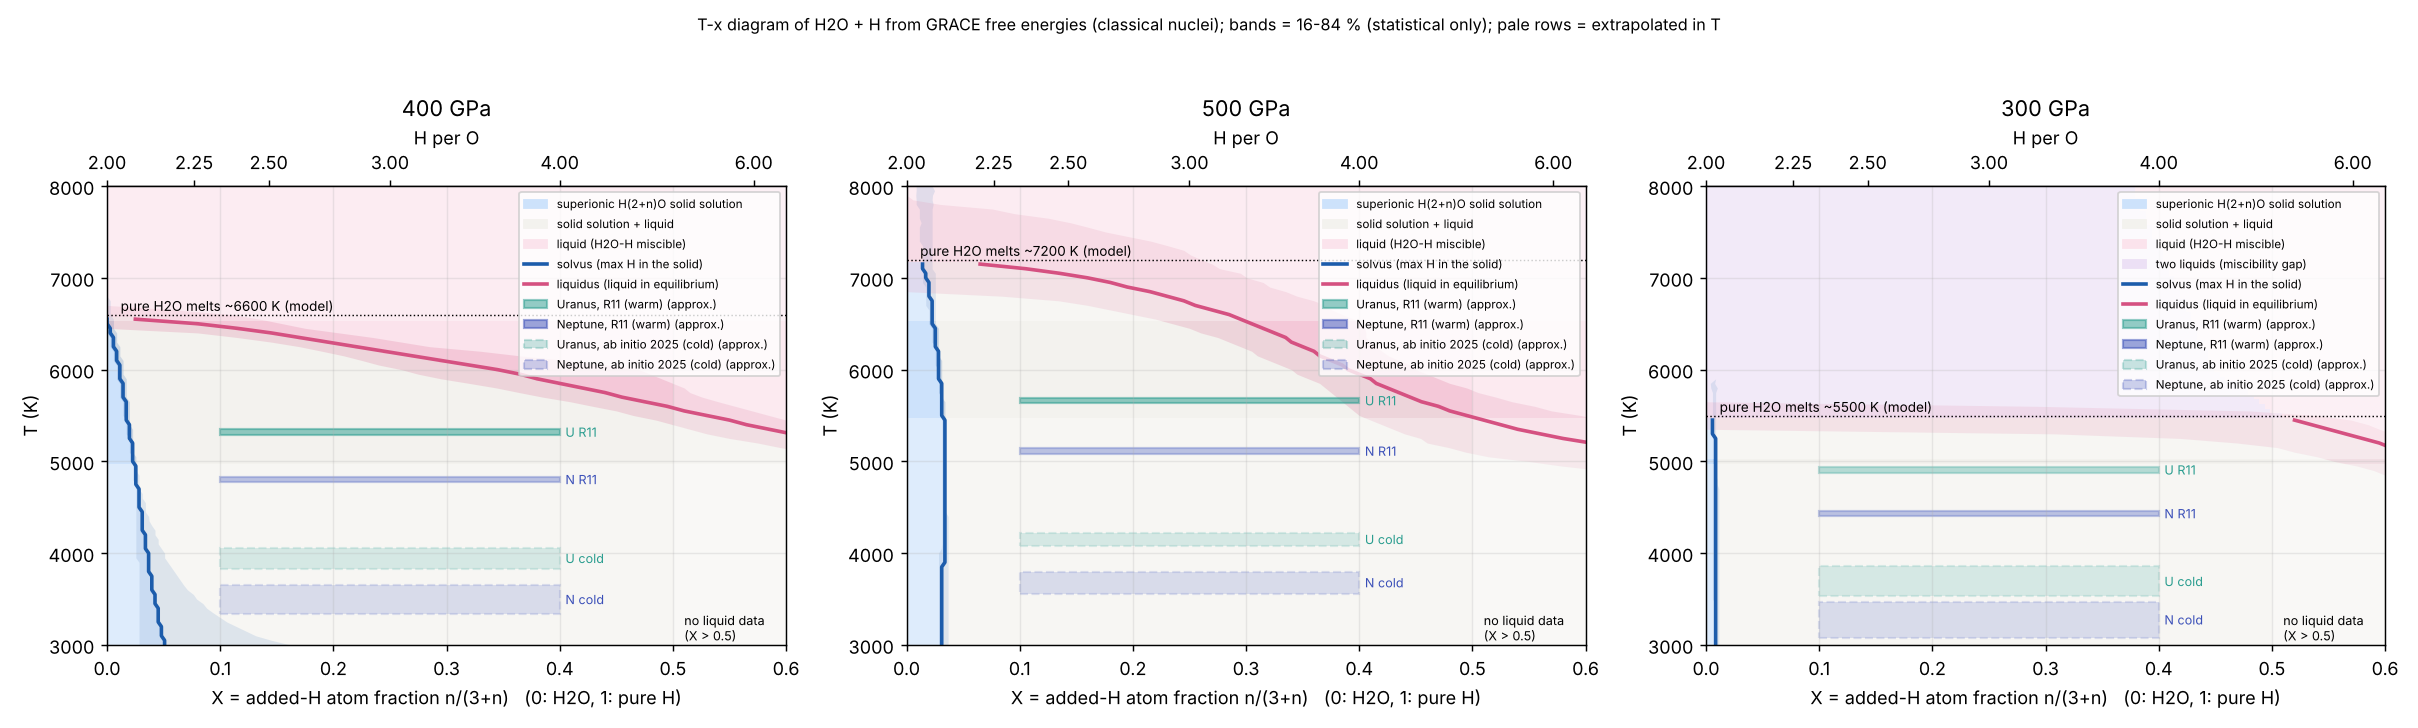
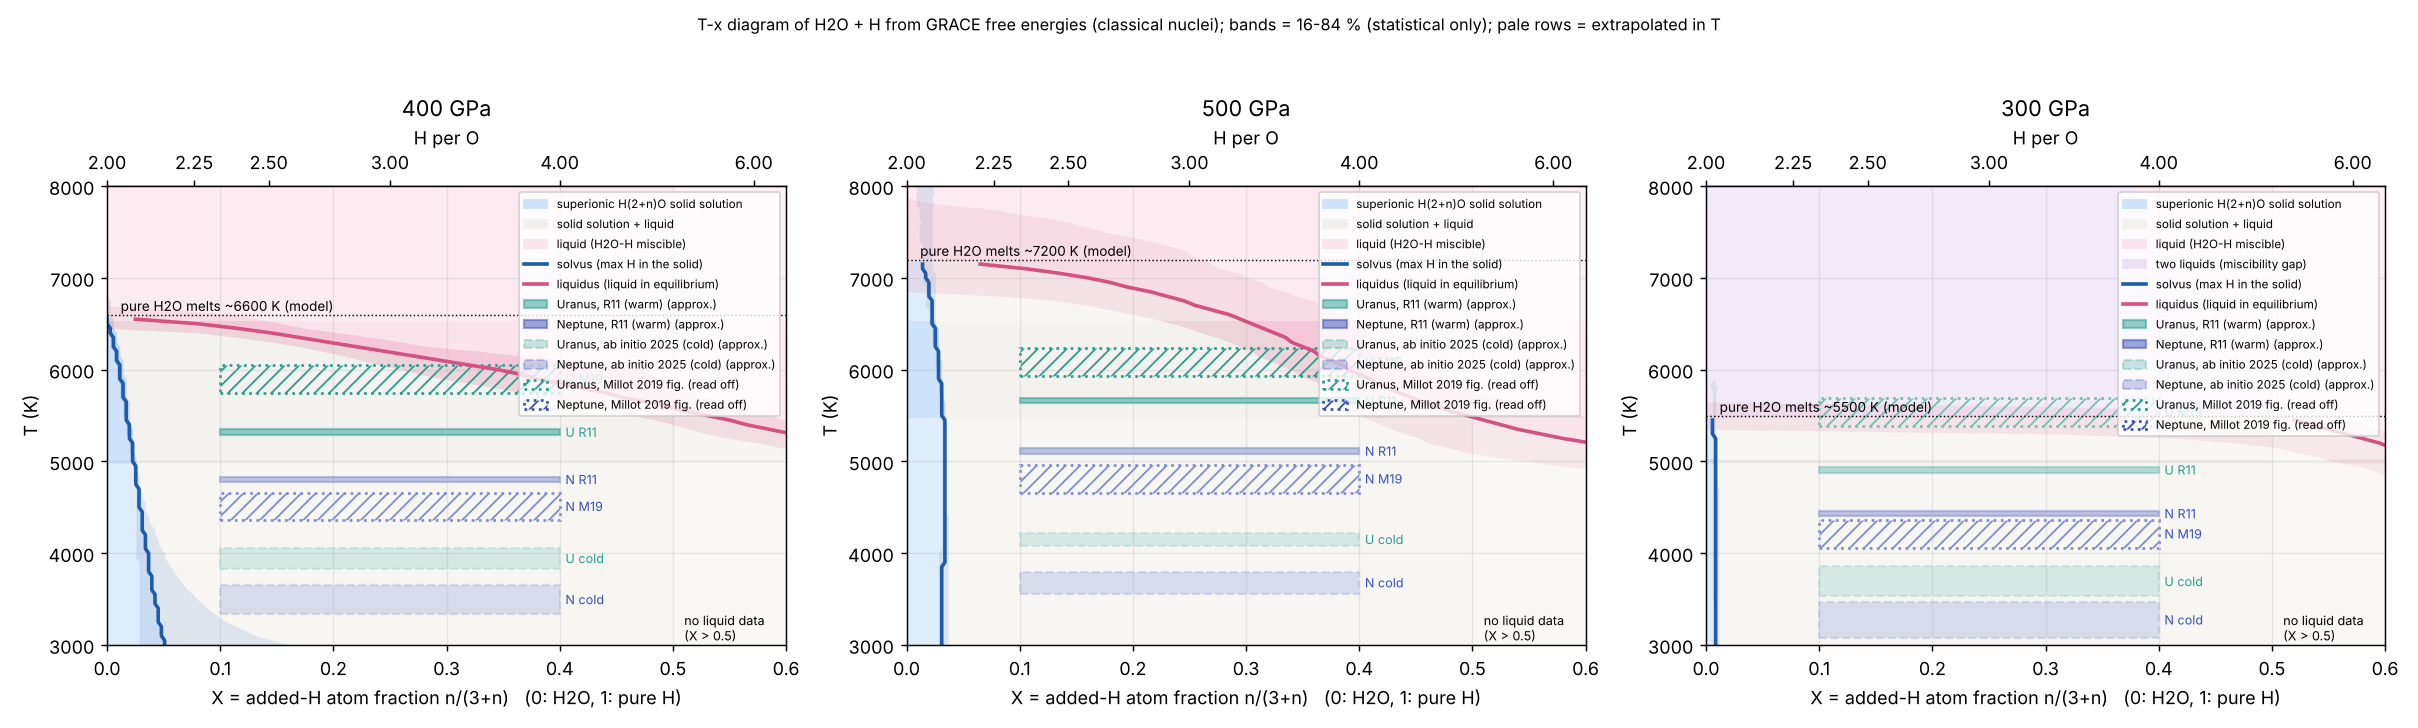
tx_diagram: Uranus / Neptune T(P) read off Millot et al. 2019 (hatched bands, +-150 K)
Claude-Session: https://claude.ai/code/session_01RSfmJNpmRzcKj5F71AN4DM

diff --git a/mlp_pipeline/tdi/tx_diagram.py b/mlp_pipeline/tdi/tx_diagram.py
@@ -12,7 +12,7 @@ Second solid (eutectics): --compound HPERO:DG[:DS] adds a line compound H(HPERO)
   (H2O superionic solid + fluid H at the same P, T; NOT Huang's 0 K reference: theirs is vs H2O Pbcm + solid H, include your own entropy / reference shift).
   With it the hull can show solid + compound and compound + liquid fields; the temperatures where the hull's phase sequence changes (eutectic, peritectic,
   melting of a phase) are printed. Without a compound there is one solid only (pure H is fluid here) and no eutectic at these T.
-Planets: Uranus / Neptune bands from docs/data/ice_giant_profiles.csv (approximate T(P), see its header): at each panel's P a horizontal bar at the planet's T (range = slope range)
+Planets: Uranus / Neptune bands from docs/data/ice_giant_profiles.csv (approximate T(P), see its header) and docs/data/ice_giant_profiles_millot2019.csv (read off Millot 2019, hatched): at each panel's P a horizontal bar at the planet's T (range = slope range)
   over X = --planet-x (default 0.1-0.4): H mass fraction w in the water-rich layer -> n = 18.015 w / (1.008 (1 - w)) added H per O, X = n / (3 + n); w = 2 % -> X 0.11, 5 % -> 0.24,
   10 % -> 0.40 (three-layer models put roughly 5-15 wt% H/He into the inner envelope; He is not in our system). --no-planets to leave them out.
 usage: python3 mlp_pipeline/tdi/tx_diagram.py [--P 400 500 300] [--T 3500 8000] [--xmax 1] [--compound 3:-20:0.002] [-o docs/figures/tx_diagram]   -> <o>.png, <o>.csv
@@ -140,6 +140,11 @@ def main():
     ap.add_argument("--planet-x", type=float, nargs=2, default=[0.1, 0.4], help="X range of the Uranus / Neptune bars"); ap.add_argument("--no-planets", action="store_true")
     ap.add_argument("-o", default="docs/figures/tx_diagram"); a = ap.parse_args()
     planets = [] if a.no_planets else [r for r in csv.DictReader(l for l in open("docs/data/ice_giant_profiles.csv") if not l.startswith("#"))]
+    if not a.no_planets:   # tabulated profiles (read off figures): one entry per planet/profile, T(P) by linear interpolation
+        tab = {}
+        for r in csv.DictReader(l for l in open("docs/data/ice_giant_profiles_millot2019.csv") if not l.startswith("#")):
+            tab.setdefault((r["planet"], r["profile"]), []).append((float(r["P_GPa"]), float(r["T_K"])))
+        planets += [dict(planet=k[0], profile=k[1], table=sorted(v)) for k, v in tab.items()]
     comp = None
     if a.compound:
         f = [float(v) for v in a.compound.split(":")] + [0.0]; nc = f[0] - 2; comp = (nc / (3 + nc), f[1], f[2])
@@ -178,8 +183,16 @@ def main():
             ax.fill_betweenx(Ts, q(0, 16), q(0, 84), color="#1c5cab", alpha=0.18, lw=0); ax.fill_betweenx(Ts, q(1, 16), q(1, 84), color="#d55181", alpha=0.18, lw=0)
         Tm = Ts[np.argmax(~ok)] if (~ok).any() else np.nan
         for r in planets:
-            Ta = float(r["T_anchor_K"]); Pa = float(r["P_anchor_GPa"]); t = [Ta * (P / Pa) ** float(r[k]) for k in ("a_min", "a_max")]; T1, T2 = min(t), max(t)
+            if "table" in r:
+                Pt, Tt = zip(*r["table"]); Tc = float(np.interp(P, Pt, Tt)); T1, T2 = Tc - 150, Tc + 150; Ta, Pa = Tc, P   # +-150 K: read-off uncertainty
+            else:
+                Ta = float(r["T_anchor_K"]); Pa = float(r["P_anchor_GPa"]); t = [Ta * (P / Pa) ** float(r[k]) for k in ("a_min", "a_max")]; T1, T2 = min(t), max(t)
             cold = "cold" in r["profile"]; c = "#2a9d8f" if r["planet"] == "Uranus" else "#3a4fb8"
+            if "table" in r:
+                ax.add_patch(plt.Rectangle((a.planet_x[0], T1), a.planet_x[1] - a.planet_x[0], T2 - T1, fc="none", ec=c, lw=1.5, ls=":", hatch="///", label=f"{r['planet']}, {r['profile']} (read off)"))
+                ax.text(a.planet_x[1] + 0.005, Tc, f"{r['planet'][0]} M19", fontsize=7, color=c, va="center")
+                print(f"   {r['planet']:8s} {r['profile']:22s} at {P:.0f} GPa: T ~ {Tc:.0f} +- 150 K (read off the figure)")
+                continue
             ax.add_patch(plt.Rectangle((a.planet_x[0], T1 - 30), a.planet_x[1] - a.planet_x[0], T2 - T1 + 60, fc=c, alpha=0.25 if cold else 0.5, ec=c, lw=1.2, ls="--" if cold else "-",
                                        label=f"{r['planet']}, {r['profile']} (approx.)"))
             ax.text(a.planet_x[1] + 0.005, (T1 + T2) / 2, f"{r['planet'][0]} {'cold' if cold else 'R11'}", fontsize=7, color=c, va="center")
